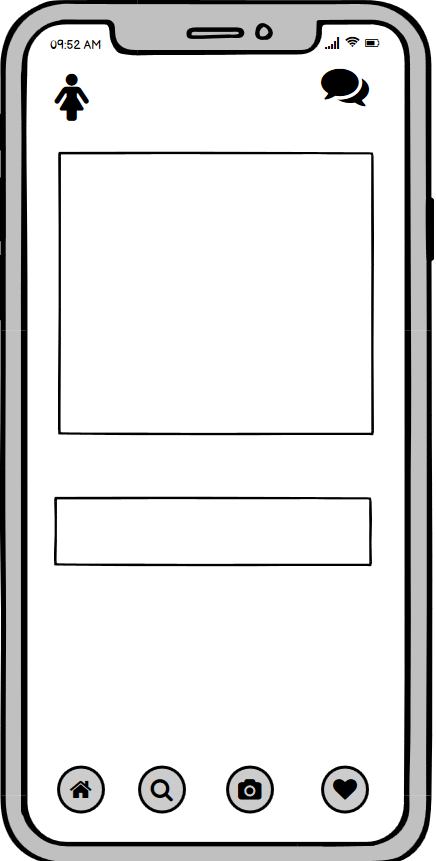
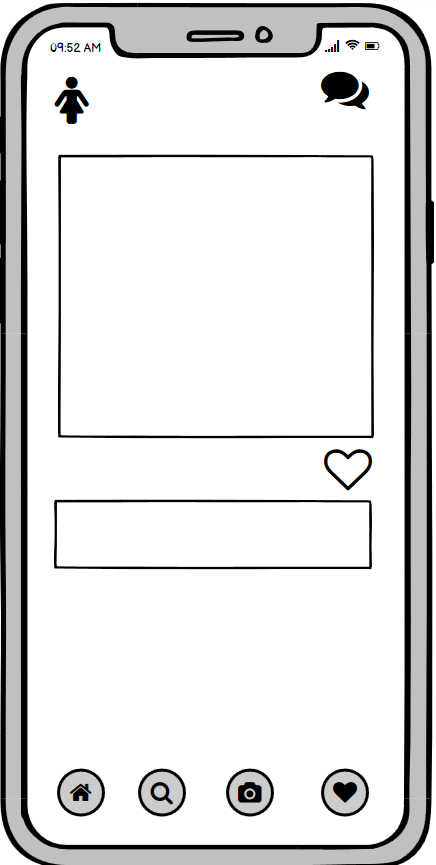
liked and search cats

diff --git a/sketch.js b/sketch.js
@@ -1,4 +1,4 @@
-let button, img;
+let button, button1, button2, button3, button4, button5, button6, button7, img;
 function preload(){
   home = loadImage('assets/homepage.png');
   account = loadImage('assets/account.png');
@@ -6,6 +6,7 @@ function preload(){
   messages = loadImage('assets/messages.png');
   search = loadImage('assets/searchpage.png');
   post = loadImage('assets/post.png');
+  kitty = loadImage('assets/catsearch.png');
 
 
   //buttons
@@ -16,7 +17,8 @@ function preload(){
   searchb = loadImage('assets/searchbutton.png');
   postb = loadImage('assets/postbutton.png');
   profile = loadImage('assets/profile.png');
-
+  heartb = loadImage('assets/hearticon.png');
+  likedhome = loadImage('assets/likedhome.png');
 
 }
 
@@ -27,6 +29,11 @@ function setup() {
   button = createImg('assets/activitybutton.png', 'activity button');
   button.position(300,750);
   button.mousePressed(loadActivity);
+  
+
+  button7 = createImg('assets/hearticon.png', 'activity button');
+  button7.position(300,440);
+  button7.mousePressed(function(){ (loadlikedHome) ( button7.remove() )});
 
   button1 = createImg('assets/searchbutton.png', 'search button');
   button1.position(130,750);
@@ -58,12 +65,21 @@ function loadAccount(){
 }
 function loadHome(){
   image(home,0,0);
+
+}
+function loadlikedHome(){
+  image(likedhome,0,0);
+
 }
 function loadSearchy(){
   image(search,0,0);
   button6 = createImg('assets/profile.png', 'proofile button');
   button6.position(40,140);
-  button6.mousePressed(function(){ (loadAccount) ( button6.remove() )});
+  button6.mousePressed(function(){ (loadAccount) ( button6.remove() )( button8.remove() )});
+
+  button8 = createImg('assets/searchbar.png', 'search bar button');
+  button8.position(70,700);
+  button8.mousePressed(function(){ (loadKitty) ( button8.remove() )( button6.remove() )});
 
 }
 function remove5(){
@@ -74,6 +90,9 @@ function loadMessages(){
 }
 function loadPost(){
   image(post,0,0);
+}
+function loadKitty(){
+  image(kitty,0,0);
 }
 // function draw() {
 //   // put drawing code here
